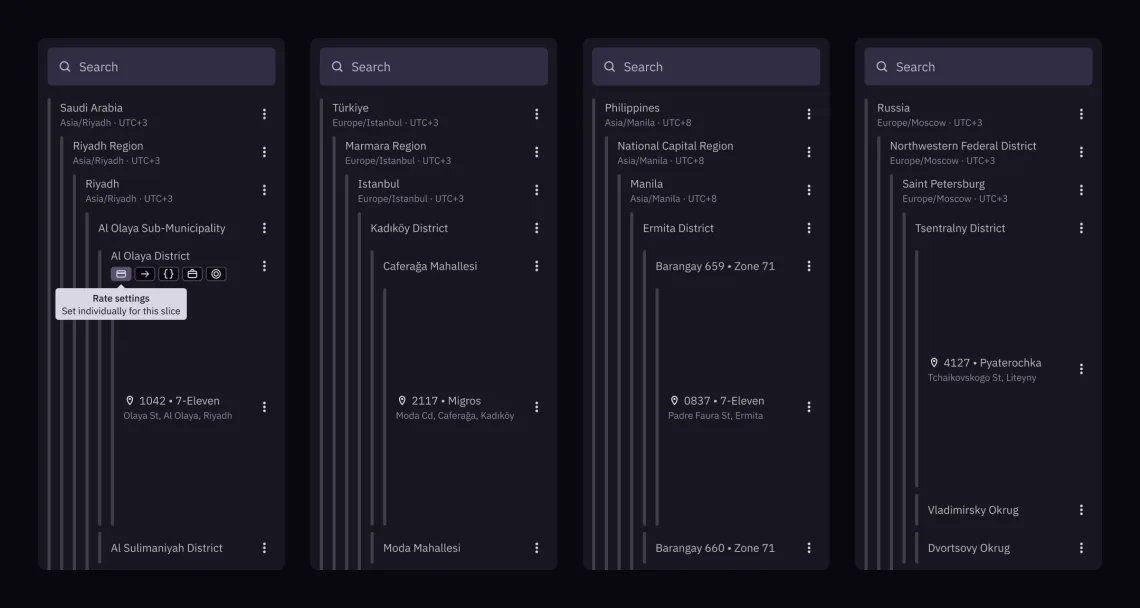
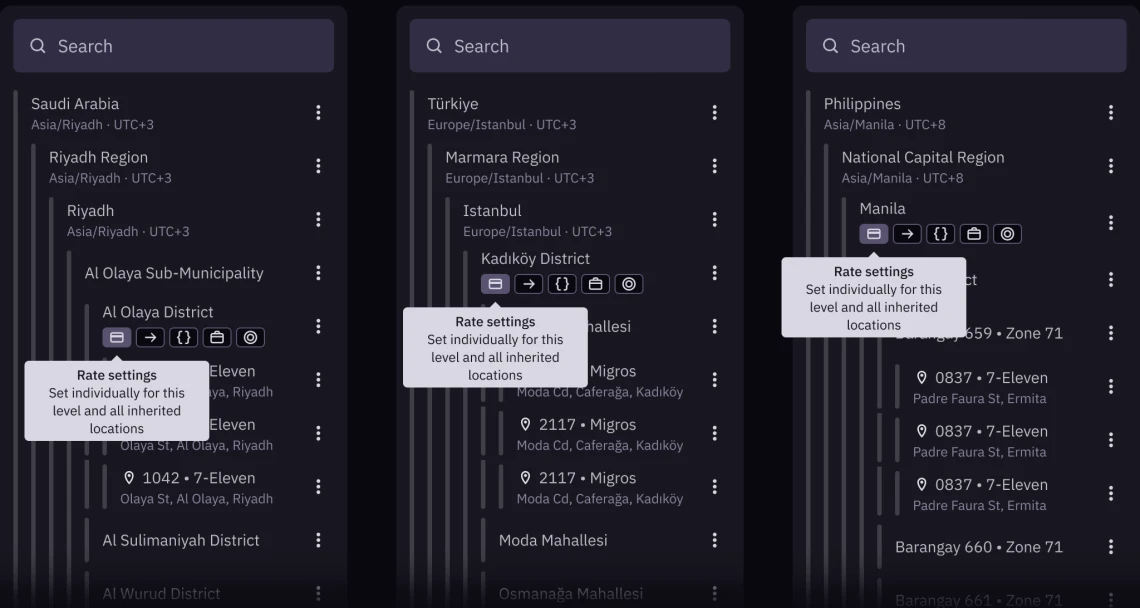
levels-fix

diff --git a/ma-direct/index.html b/ma-direct/index.html
@@ -196,7 +196,7 @@
           <span class="image-loader image-loader--spinner">
             <img class="media__image" src="../assets/img/ma-direct/levels-1140.webp" srcset="../assets/img/ma-direct/levels-1140.webp 1140w, ../assets/img/ma-direct/levels-2160.webp 2160w"
                  sizes="(max-width: 767.98px) calc(100vw - 48px), min(1140px, calc(100vw - 280px))"
-                 width="2160" height="1152" alt="Four location trees side by side, each set up with different levels: Saudi Arabia, Riyadh Region, Riyadh, Al Olaya Sub-Municipality and Al Olaya District down to a 7-Eleven store, with a Rate settings tooltip, set individually for this slice; Türkiye, Marmara Region, Istanbul, Kadıköy District and Caferağa Mahallesi down to a Migros store; the Philippines, National Capital Region, Manila, Ermita District and Barangay 659 down to a 7-Eleven; and Russia, Northwestern Federal District, Saint Petersburg and Tsentralny District down to a Pyaterochka store." loading="lazy" decoding="async">
+                 width="2160" height="1152" alt="Close-up of three location trees, each set up with different levels: Saudi Arabia down to 7-Eleven stores in Al Olaya District, Riyadh; Türkiye down to Migros stores in Kadıköy, Istanbul; and the Philippines down to 7-Eleven stores in Ermita, Manila. In each tree a node’s action bar is open with a Rate settings tooltip: set individually for this level and all inherited locations." loading="lazy" decoding="async">
           </span>
           <span class="visually-hidden">(opens full size)</span>
         </a>
